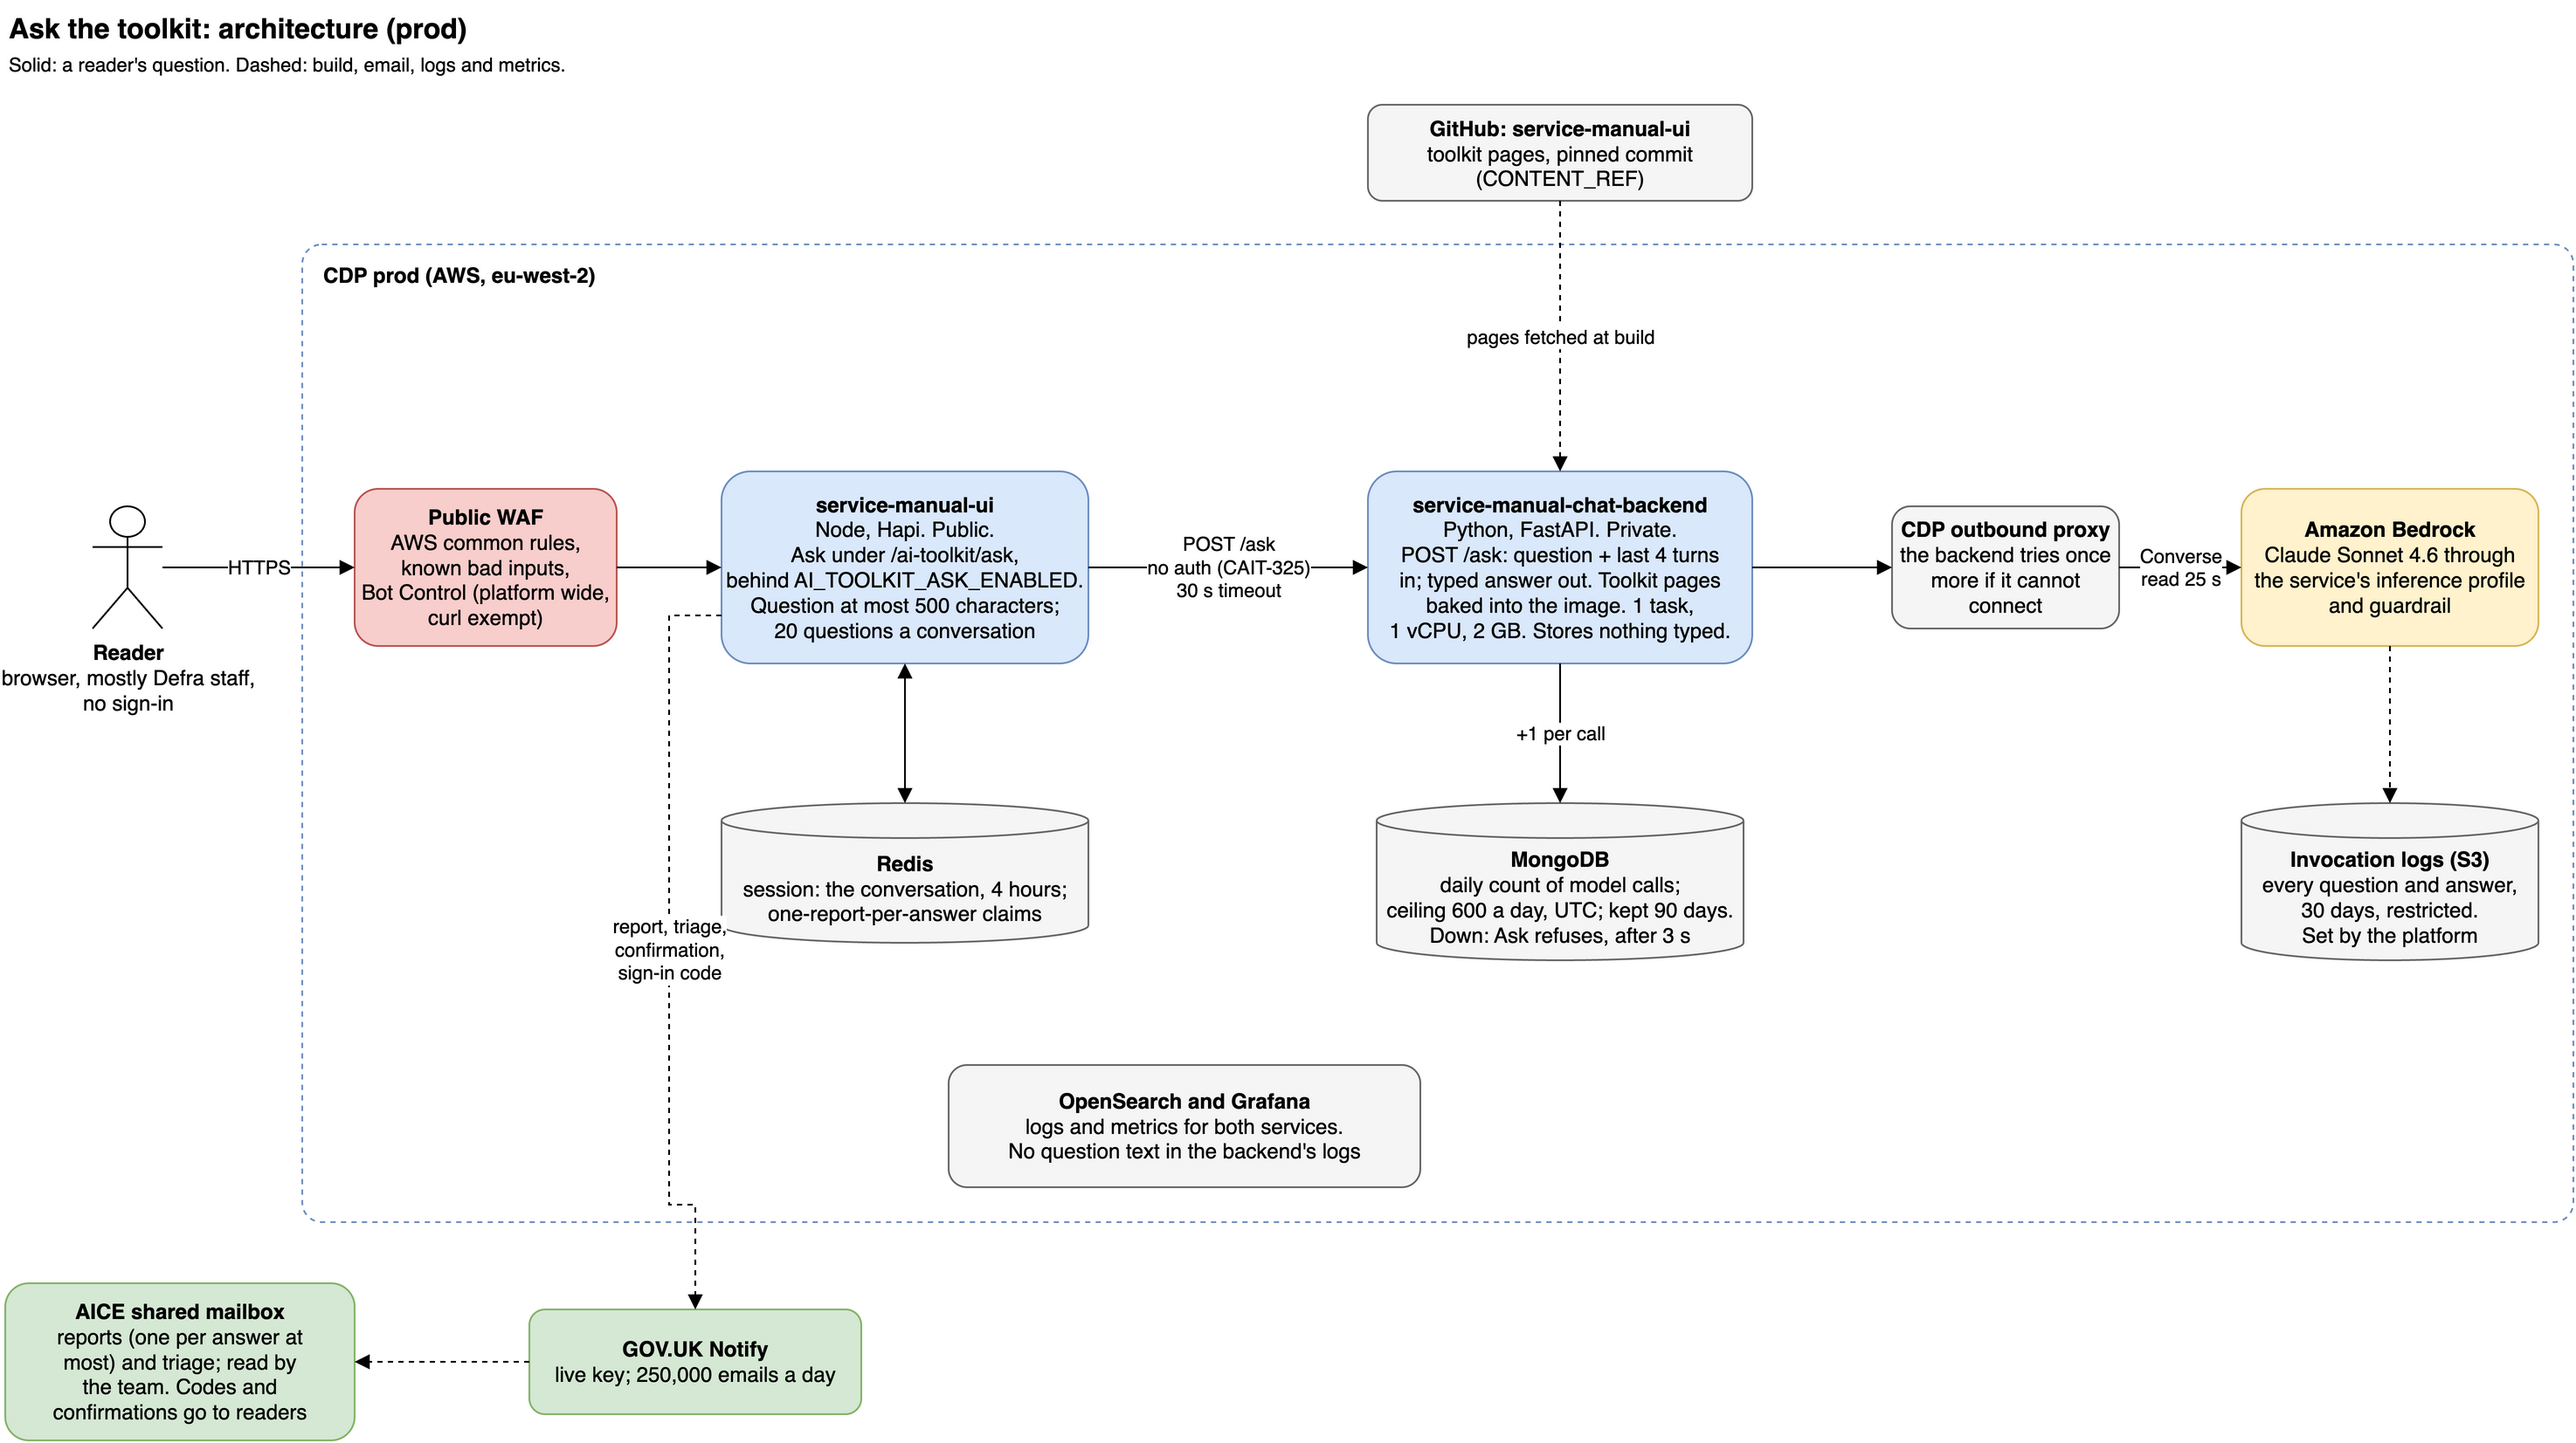
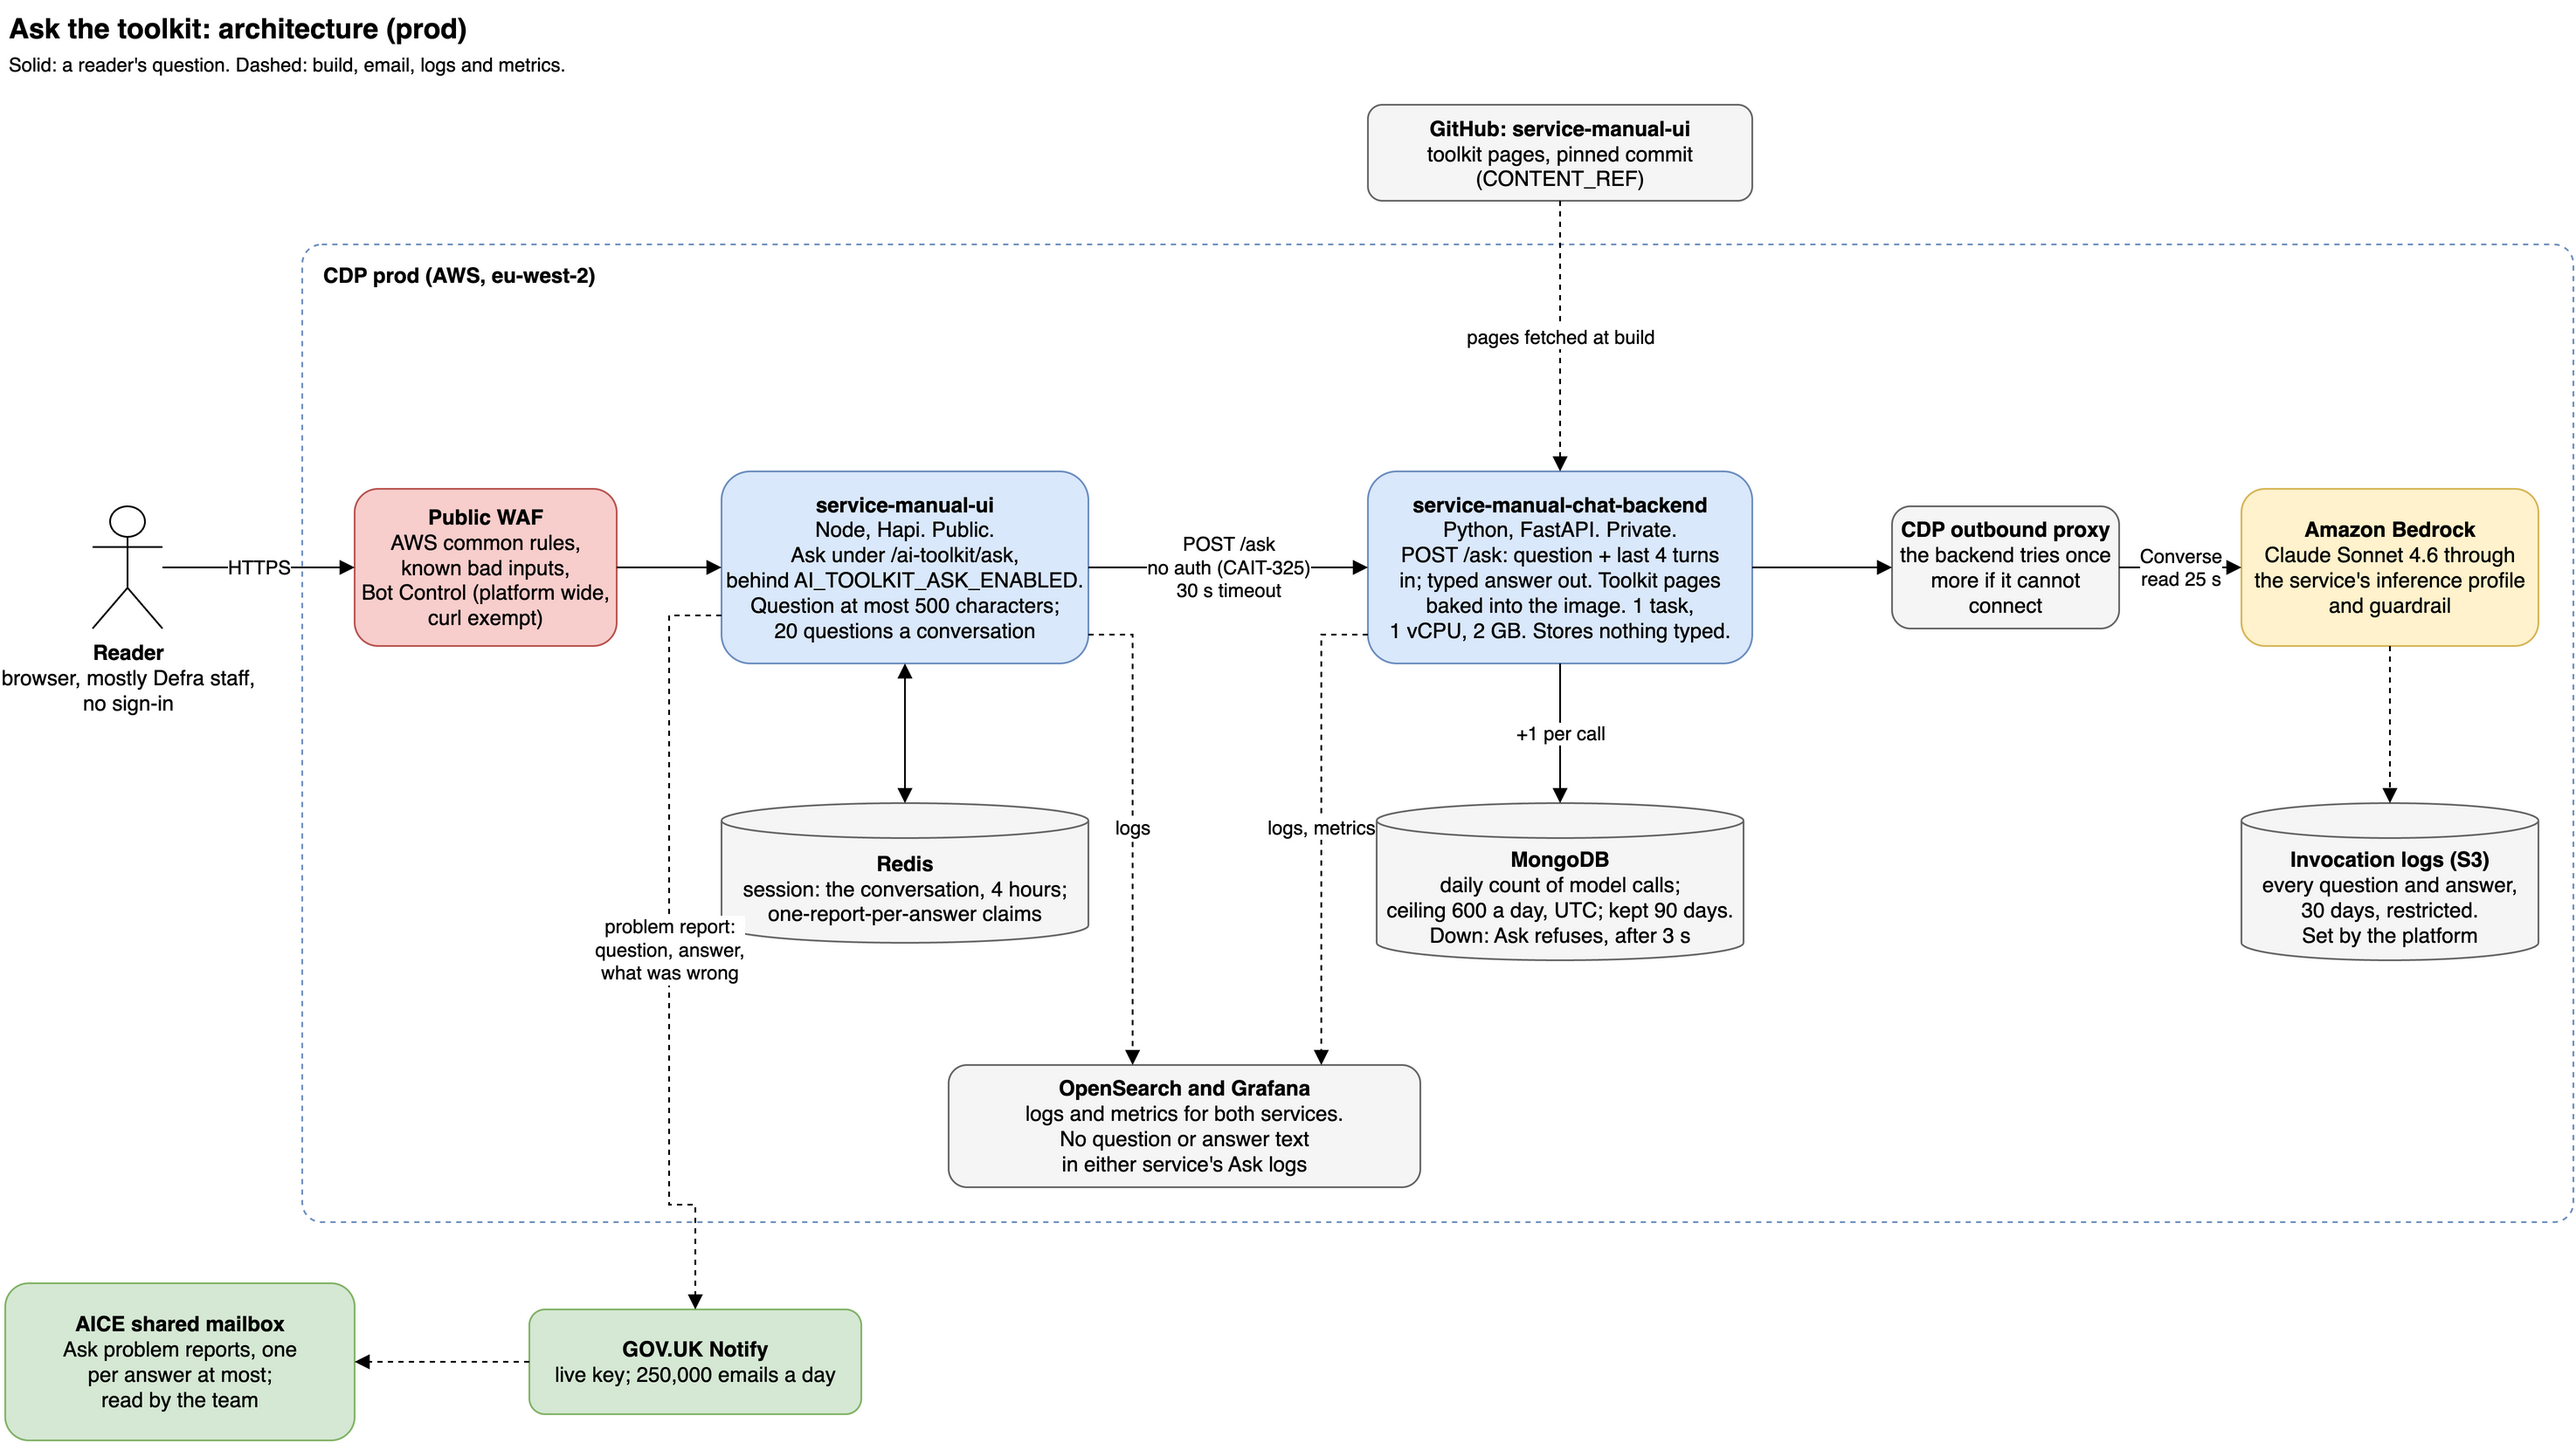
CAIT-358: Architecture, review fixes
Describe the request path in words and in the alt text. List every place
question and answer text is kept, including problem reports. Diagram: the
Notify edge carries Ask problem reports only (the sign-in code belongs to
the triage form), logs edges to OpenSearch, page width fits the content.

diff --git a/docs/architecture.md b/docs/architecture.md
@@ -3,10 +3,20 @@
 How Ask the toolkit fits together on CDP, as released. As of 17 November 2026.
 For what to do when something goes wrong, see [the runbook](runbook.md).
 
-![Ask the toolkit architecture on prod](architecture.png)
+![Ask the toolkit on prod: reader, WAF, service-manual-ui, service-manual-chat-backend, outbound proxy, Amazon Bedrock, with Redis, MongoDB, logs and GOV.UK Notify alongside. Described in words below.](architecture.png)
 
-Solid lines are a reader's question; dashed lines are the build, email, logs and
-metrics. The source is [`architecture.drawio`](architecture.drawio): edit it in
+In words: a reader's question goes over HTTPS through CDP's public web
+application firewall (WAF) to service-manual-ui. The site posts it, with the last
+4 turns, to the backend's `POST /ask`. The backend counts the call in MongoDB,
+then calls Claude on Amazon Bedrock through CDP's outbound proxy, with the
+service's own inference profile and guardrail. The typed answer goes back the
+same way. Off the question's path: the toolkit pages are fetched from
+service-manual-ui into the backend image at build; both services send logs to
+OpenSearch; Bedrock writes its own invocation logs; and a problem report goes
+from the site through GOV.UK Notify to the team's shared mailbox.
+
+In the diagram, solid lines are a reader's question; dashed lines are the build,
+email, logs and metrics. The source is [`architecture.drawio`](architecture.drawio): edit it in
 draw.io and export a PNG with the same name, at scale 2.
 
 ## The parts
@@ -17,17 +27,33 @@ draw.io and export a PNG with the same name, at scale 2.
 | service-manual-chat-backend | This repo (Python, FastAPI). One endpoint, `POST /ask`: takes a question and the last 4 turns, and returns a typed answer. Not reachable from the internet. |
 | Amazon Bedrock | Claude Sonnet 4.6, through the service's own inference profile and guardrail in each environment. The backend's task role signs the calls; there is no key. |
 | MongoDB | The day's count of model calls, for the daily ceiling. Nothing else. |
-| Redis | The site's session: the conversation, for 4 hours. |
+| Redis | The site's session: the conversation, for 4 hours, and a claim that stops a second report on the same answer. |
+| GOV.UK Notify | Sends a reader's problem report to the team's shared mailbox. |
 | CDP outbound proxy | Every call to Bedrock goes through it. |
 
 ## What is kept, and where
 
-- **The question and answer text** is kept in the site's Redis session for 4
-  hours, and in Bedrock's invocation logs for 30 days. The platform runs those
-  logs in a restricted S3 bucket; we cannot change them.
-- **The backend keeps nothing a reader typed.** Its logs give lengths,
-  statuses, token counts and the `trace.id`, never the question or answer.
-- **MongoDB** holds one count per day, kept for 90 days.
+Ask has no sign-in, so it holds no reader's name or email address. A reader can
+still type personal data into a question, so the question and answer text is
+treated as personal data wherever it is kept.
+
+- **The site's Redis session:** the conversation, for 4 hours.
+- **Bedrock's invocation logs:** every question and answer, for 30 days, in a
+  restricted S3 bucket. The platform runs them; we cannot change them.
+- **A problem report:** the question, the answer and what the reader said was
+  wrong. It goes through GOV.UK Notify, which keeps sent emails for a limited
+  time (7 days by default; the setting is in the service's Notify account), to
+  the team's shared mailbox, where it stays until the team deletes it. If a
+  reader typed personal data, the runbook says to report an AI incident and
+  delete the email.
+- **Logs:** neither service logs a question or answer. The site logs failures
+  by type; the backend logs lengths, statuses, token counts and the
+  `trace.id`.
+- **MongoDB:** one count per day, kept for 90 days. Nothing a reader typed.
+
+The site has other journeys that are not part of Ask, such as the AI use case
+triage form. That form has its own email sign-in code and confirmation emails,
+sent through the same Notify account; they are not covered here.
 
 ## Design choices
 
